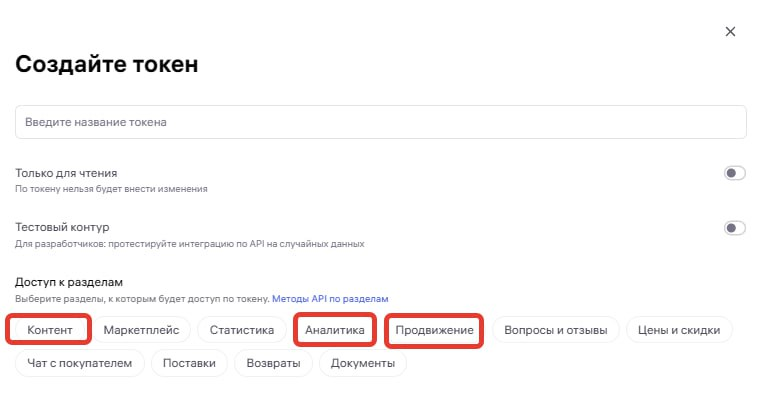
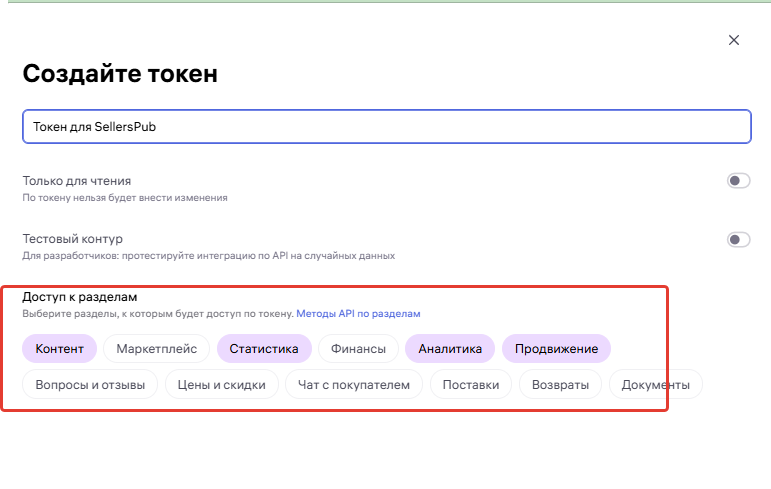
Update token rights on adding shop picture and message

diff --git a/app/client_bot/user_interface/views/messages/messages.py b/app/client_bot/user_interface/views/messages/messages.py
@@ -128,9 +128,7 @@ class AdvCompanyChoicing(TextWithKeyboardPagination):
         adv_settings_filtred: list[AdvSetting] = await self._filter_advs(adv_settings)
         self._adv_settings = adv_settings_filtred
         stmt = select(WBCabinet.id).where(
-            WBCabinet.wb_user_cabinets.any(
-                WBUserCabinet.id == int(self._wb_user_cabinet_original_id)
-            )
+            WBCabinet.wb_user_cabinets.any(WBUserCabinet.id == int(self._wb_user_cabinet_original_id))
         )
         async with sm() as session:
             result = await session.execute(stmt)
@@ -219,9 +217,7 @@ class AdvSettingMenu(TextWithKeyboardAndImage):
         else:
             self._min_ctr = str(round(self._min_ctr, 2) * 100) + "%"
 
-        self.in_favorites_user: bool = await data_manager.is_adv_in_favorites(
-            self.adv.id, self.wb_user_cabinet.user_id
-        )
+        self.in_favorites_user: bool = await data_manager.is_adv_in_favorites(self.adv.id, self.wb_user_cabinet.user_id)
 
         full_stat_update_time = await self._get_last_full_stat_update(self.adv.adv_id)
         if not full_stat_update_time:
@@ -240,35 +236,29 @@ class AdvSettingMenu(TextWithKeyboardAndImage):
             await NoMainPhotos(self._bot, self._chat_id)(self.adv)
             return
 
-        last_update_keyword_stat: datetime | None = await self._get_last_update_keyword_stat(
-            self.adv.adv_id
-        )
+        last_update_keyword_stat: datetime | None = await self._get_last_update_keyword_stat(self.adv.adv_id)
         if last_update_keyword_stat:
-            self.last_update_keyword_stat_str = last_update_keyword_stat.strftime(
-                "%Y-%m-%d %H:%M:%S"
-            )
+            self.last_update_keyword_stat_str = last_update_keyword_stat.strftime("%Y-%m-%d %H:%M:%S")
         else:
             self.last_update_keyword_stat_str = "Нет данных"
 
-        self.keywords_status_last_update_auto_adv = (
-            await self._get_last_keywords_status_update_timestamp(self.adv.adv_id)
+        self.keywords_status_last_update_auto_adv = await self._get_last_keywords_status_update_timestamp(
+            self.adv.adv_id
         )
 
         if not self.keywords_status_last_update_auto_adv:
             self.keywords_status_last_update_auto_adv = "Нет данных"
 
         if search_adv_id := self.adv.search_adv_id:
-            self.keywords_status_last_update_search_adv = (
-                await self._get_last_keywords_status_update_timestamp(search_adv_id)
+            self.keywords_status_last_update_search_adv = await self._get_last_keywords_status_update_timestamp(
+                search_adv_id
             )
             if self.keywords_status_last_update_search_adv is None:
                 self.keywords_status_last_update_search_adv = "Нет данных"
         else:
             self.keywords_status_last_update_search_adv = "Аукцион не подключен к РК"
 
-        adv_stat: FullAdvStat = await data_manager.get_full_adv_stat_for_adv_id_from_redis(
-            adv_id=self.adv.adv_id
-        )
+        adv_stat: FullAdvStat = await data_manager.get_full_adv_stat_for_adv_id_from_redis(adv_id=self.adv.adv_id)
 
         self.adv_stat = adv_stat
 
@@ -349,16 +339,12 @@ class AdvSettingMenu(TextWithKeyboardAndImage):
 
     @property
     def keyboard(self):
-        return keyboards.get_adv_setting_keyboard(
-            self._chat_id, self.wb_user_cabinet, self.adv, self.in_favorites_user
-        )
+        return keyboards.get_adv_setting_keyboard(self._chat_id, self.wb_user_cabinet, self.adv, self.in_favorites_user)
 
     @staticmethod
     async def _get_last_update_keyword_stat(adv_id: int) -> datetime | None:
         last_update_keyword_stat_manager = KeywordStatUpdateState()
-        last_update_keyword_stat_for_complex_adv = await last_update_keyword_stat_manager.get_one(
-            adv_id
-        )
+        last_update_keyword_stat_for_complex_adv = await last_update_keyword_stat_manager.get_one(adv_id)
         return last_update_keyword_stat_for_complex_adv
 
     @staticmethod
@@ -408,7 +394,7 @@ class AddNewTokenGet(TextWithImage):
     def text(self):
         return (
             f"Пришлите новый Api ключ дла магазина (кабинета) {self.__cabinet_name}.\n"
-            "Для работы бота нужны права Контент,  Продвижение и Аналитика"
+            "Для работы бота нужны права Контент, Статистика,  Аналитика, Продвижение"
         )
 
     @property
@@ -480,9 +466,7 @@ class KeywordSettingMessage(TextWithKeyboard):
         nmid = int(adv_setting.nmids[0])
         adv_id = int(self._adv_setting.adv_id)
         text = str(self._keyword_setting.text)
-        position: WBItemPosition = await redis_manager.get_keyword_position(
-            str(keyword_setting.text), nmid
-        )
+        position: WBItemPosition = await redis_manager.get_keyword_position(str(keyword_setting.text), nmid)
         self.position = position
         if position:
             self.last_full_update = position.timestamp.strftime("%d-%m-%Y %H:%M")
@@ -702,9 +686,7 @@ class NoMainPhotos(TextWithKeyboard):
 
     @property
     def keyboard(self):
-        button = InlineKeyboardButton(
-            text="Вернуться к списку магазинов", callback_data=callbacks.Start().pack()
-        )
+        button = InlineKeyboardButton(text="Вернуться к списку магазинов", callback_data=callbacks.Start().pack())
         builder = InlineKeyboardBuilder()
         builder.row(button)
         return builder.as_markup()
@@ -801,9 +783,7 @@ class SettingMinCTR(TextWithKeyboard):
             f"Минимальный CTR для кампании {self._adv.name}"
             f" равен {round(self._min_ctr * 100, 1)} %,"
             f"""тип минимального CTR: {
-                "Задан в ручную"
-                if not self._adv.new_auto_min_ctr_mode
-                else "Определен автоматически"
+                "Задан в ручную" if not self._adv.new_auto_min_ctr_mode else "Определен автоматически"
             }\n"""
         )
 
@@ -843,11 +823,7 @@ class MaxCPCSetting(TextWithKeyboard):
         self._adv = adv
 
         keywords: list[CalculatedKeyword] = await data_manager.get_good_bad_phrases(adv)
-        keywords = [
-            kw
-            for kw in keywords
-            if str(kw.status) == KeywordStatus.GOOD or kw.reason == KeywordStatus.MAX_CPC
-        ]
+        keywords = [kw for kw in keywords if str(kw.status) == KeywordStatus.GOOD or kw.reason == KeywordStatus.MAX_CPC]
         keywords.sort(key=lambda x: x.cpc, reverse=True)
         if not self._adv.max_cpc:
             top_kw_list = []
@@ -908,9 +884,7 @@ class IncorrectMinViewsForPredictCTR(TextWithKeyboard):
         super().__init__(bot, chat_id)
         self._adv = adv
 
-    text = (
-        "Минимальное количество показов должно быть целым числом от 0 и больше. Попробуйте снова:"
-    )
+    text = "Минимальное количество показов должно быть целым числом от 0 и больше. Попробуйте снова:"
 
     @property
     def keyboard(self):
@@ -946,9 +920,7 @@ class NotEnoughMoneyForParsing(TextWithKeyboard):
         super().__init__(bot, chat_id)
         self._wb_cabinet_original_id = wb_cabinet_original_id
 
-    text = (
-        """Не достаточный баланс для парсинга ключевых слов. Пополните баланс и попробуйте снова"""
-    )
+    text = """Не достаточный баланс для парсинга ключевых слов. Пополните баланс и попробуйте снова"""
 
     @property
     def keyboard(self):
@@ -1049,24 +1021,18 @@ class CPMSetting(TextWithKeyboard):
             if self.adv_setting.bidder_for_auto
             else "Включить управление ставкой для Авто"
         )
-        callback_action = (
-            "off_bidder_for_auto" if self.adv_setting.bidder_for_auto else "on_bidder_for_auto"
-        )
+        callback_action = "off_bidder_for_auto" if self.adv_setting.bidder_for_auto else "on_bidder_for_auto"
 
         bottom = InlineKeyboardButton(
             text=button_text,
-            callback_data=callbacks.CPMSettingMenu(
-                action=callback_action, adv_original_id=self.adv_setting.id
-            ).pack(),
+            callback_data=callbacks.CPMSettingMenu(action=callback_action, adv_original_id=self.adv_setting.id).pack(),
         )
 
         builder.row(bottom)
 
         bottom = InlineKeyboardButton(
             text="Изменить ставку (Максимальную ставку)",
-            callback_data=callbacks.CPMSettingMenu(
-                action="set_manual_cpm", adv_original_id=self.adv_setting.id
-            ).pack(),
+            callback_data=callbacks.CPMSettingMenu(action="set_manual_cpm", adv_original_id=self.adv_setting.id).pack(),
         )
 
         builder.row(bottom)
@@ -1160,9 +1126,7 @@ class WaitingForBlackPhrases(TextWithKeyboard):
             builder.row(
                 InlineKeyboardButton(
                     text="Сбросить черный список",
-                    callback_data=callbacks.ResetBlackPhrases(
-                        adv_setting_id=self.adv_setting_id
-                    ).pack(),
+                    callback_data=callbacks.ResetBlackPhrases(adv_setting_id=self.adv_setting_id).pack(),
                 )
             )
 
